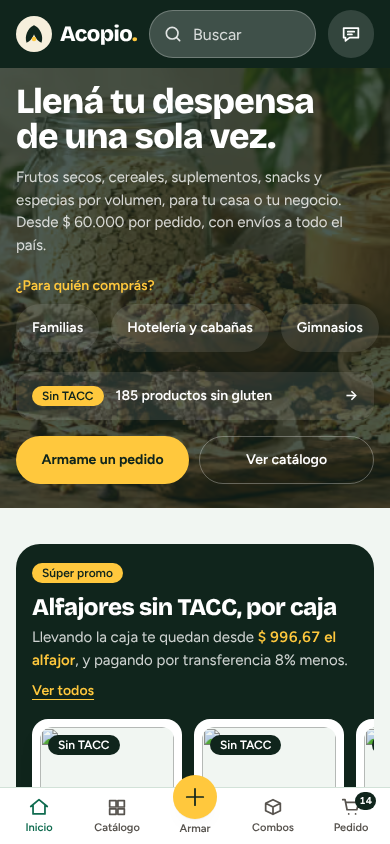
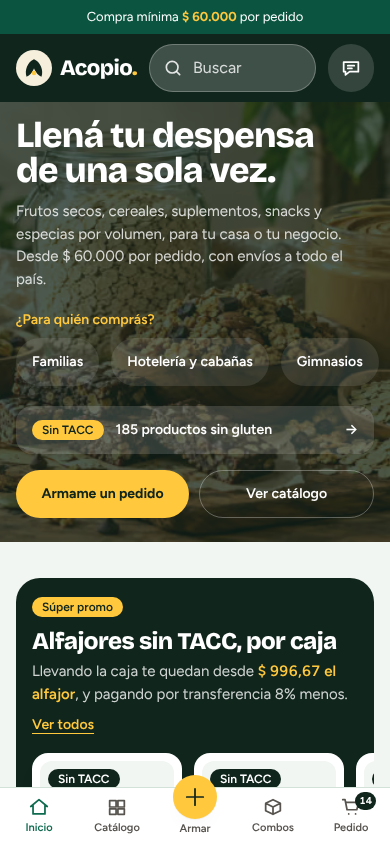
Donde aparece un combo, va todo lo que trae
Un combo mostraba su contenido recortado en dos renglones con "...", asi que
para saber que se llevaba habia que entrar a la ficha.

- ListaCombo: un solo componente con el contenido entero, encabezado por
  "Trae N productos" (y las unidades cuando no coinciden). Lo usan la tarjeta
  de combo (portada, /combos, ficha de producto, paginas locales) y los
  pedidos por rubro de la portada, que antes solo decian el numero.
- El asistente manda la lista completa en la ficha del combo y el renglon
  dejo de cortarse con truncate.

Ademas, la compra minima se veia recien al llegar al checkout. Ahora va en una
franja arriba de todo, en cada pagina, con el monto real de la configuracion.

Claude-Session: https://claude.ai/code/session_01AdVG5TyZmaUrU68vAP2mxP

diff --git a/src/app/(tienda)/layout.tsx b/src/app/(tienda)/layout.tsx
@@ -3,6 +3,8 @@ import { Logo } from "@/components/Logo";
 import { ProveedorCarrito } from "@/components/Carrito";
 import { BarraInferior, Encabezado, MedidorPedido } from "@/components/Encabezado";
 import { NICHOS } from "@/lib/taxonomia";
+import { leerConfig } from "@/lib/config";
+import { pesos } from "@/lib/precios";
 import { AVISO_SUPLEMENTOS, SITIO, urlSitio } from "@/lib/sitio";
 
 export const dynamic = "force-dynamic";
@@ -20,12 +22,18 @@ const NEGOCIO = {
   areaServed: [{ "@type": "City", name: "Villa Carlos Paz" }, { "@type": "AdministrativeArea", name: "Valle de Punilla" }, { "@type": "Country", name: "Argentina" }],
 };
 
-export default function TiendaLayout({ children }: { children: React.ReactNode }) {
+export default async function TiendaLayout({ children }: { children: React.ReactNode }) {
+  const cfg = await leerConfig();
   return (
     <ProveedorCarrito>
       <div className="flex min-h-screen flex-col overflow-x-clip">
         <script type="application/ld+json" dangerouslySetInnerHTML={{ __html: JSON.stringify(NEGOCIO).replace(/</g, "\\u003c") }} />
         <a href="#contenido" className="sr-only focus:not-sr-only focus:fixed focus:left-3 focus:top-3 focus:z-50 focus:rounded-full focus:bg-sol focus:px-4 focus:py-3 focus:font-bold focus:text-acopio-900">Saltar al contenido</a>
+        {/* La compra mínima tiene que saberse antes de elegir, no al llegar al checkout. Va arriba de todo, en cada página. */}
+        <p className="bg-acopio-700 px-4 py-2 text-center text-[13px] leading-snug text-white">
+          Compra mínima <b className="font-bold text-sol">{pesos(cfg.compraMinima)}</b> por pedido
+          <span className="hidden sm:inline"> · {cfg.entregaPropiaActiva ? "Entrega sin cargo en Villa Carlos Paz y el sur de Punilla · " : ""}Envíos a todo el país</span>
+        </p>
         <Encabezado />
         <main id="contenido" className="mx-auto w-full min-w-0 max-w-6xl flex-1 px-4 pb-40 pt-5 md:pb-24 md:pt-8">{children}</main>
         <footer className="fondo-oscuro bg-acopio-900 pb-28 text-white/80 md:pb-0">

diff --git a/src/components/Tienda.tsx b/src/components/Tienda.tsx
@@ -52,6 +52,27 @@ export function RielProductos({ productos }: { productos: ProductoTienda[] }) {
   );
 }
 
+/**
+ * Qué trae un combo, entero y sin recortar.
+ * Donde aparece un combo el cliente tiene que ver de un vistazo todo lo que se lleva:
+ * una lista cortada en "…" obliga a entrar a la ficha para saber qué está comprando.
+ */
+export function ListaCombo({ items, oscuro = false }: { items: { producto: ProductoTienda; cantidad: number }[]; oscuro?: boolean }) {
+  const unidades = items.reduce((s, i) => s + i.cantidad, 0);
+  return (
+    <div className="mt-2">
+      <p className={`text-[11px] font-bold uppercase tracking-wide ${oscuro ? "text-sol" : "text-acopio-700"}`}>
+        Trae {items.length} productos{unidades !== items.length ? `, ${unidades} unidades` : ""}
+      </p>
+      <ul className={`mt-1 space-y-px text-xs leading-snug ${oscuro ? "text-white/85" : "text-stone-700"}`}>
+        {items.map(({ producto, cantidad }) => (
+          <li key={producto.codigo}>{renglonCombo(producto, cantidad)}</li>
+        ))}
+      </ul>
+    </div>
+  );
+}
+
 export function TarjetaCombo({ c, className = "" }: { c: ComboTienda; className?: string }) {
   return (
     <article className={`fondo-oscuro flex flex-col rounded-2xl bg-acopio-900 p-3 text-white ${className}`}>
@@ -66,7 +87,7 @@ export function TarjetaCombo({ c, className = "" }: { c: ComboTienda; className?
           </div>
         )}
       <h3 className="mt-3 font-display text-xl font-bold leading-tight"><Link href={`/combos/${c.slug}`} className="estirado after:absolute after:inset-0 after:rounded-xl hover:underline">{c.nombre}</Link></h3>
-      <p className="mt-1 line-clamp-2 text-xs text-white/80">{c.items.map((i) => renglonCombo(i.producto, i.cantidad)).join(" · ")}</p>
+      <ListaCombo items={c.items} oscuro />
       </div>
       <div className="mt-auto flex flex-wrap items-baseline gap-2 pb-3 pt-3">
         <span className="font-display text-2xl font-bold tabular-nums">{pesos(c.precio)}</span>

diff --git a/src/app/api/asistente/route.ts b/src/app/api/asistente/route.ts
@@ -3,7 +3,7 @@ import { leerConfig } from "@/lib/config";
 import { detectar, normalizar, palabrasClave } from "@/lib/asistente";
 import { combosTienda, productosTienda, type ProductoTienda } from "@/lib/tienda";
 import { linkWhatsapp } from "@/lib/pedidos";
-import { pesos } from "@/lib/precios";
+import { pesos, renglonCombo } from "@/lib/precios";
 import { AVISO_SUPLEMENTOS } from "@/lib/sitio";
 
 export const dynamic = "force-dynamic";
@@ -38,7 +38,8 @@ async function buscar(texto: string, soloSinTacc = false): Promise<Respuesta> {
     return { texto: `No encontré «${consulta}»${soloSinTacc ? " sin TACC" : ""} en el catálogo. Probá con otra palabra o mirá las góndolas.`, enlaces: [{ href: "/catalogo", texto: "Ver el catálogo" }, { href: "/combos", texto: "Ver combos" }] };
   }
   const fichas: Ficha[] = [
-    ...combos.map((c) => ({ href: `/combos/${c.slug}`, nombre: `Combo ${c.nombre}`, detalle: `${c.items.length} productos, ${c.descuentoPct}% de descuento`, precio: pesos(Math.round(c.precio)), foto: c.fotoUrl })),
+    // El detalle de un combo es todo lo que trae: saber qué se lleva no puede depender de entrar a la ficha.
+    ...combos.map((c) => ({ href: `/combos/${c.slug}`, nombre: `Combo ${c.nombre}`, detalle: `Trae: ${c.items.map(({ producto, cantidad }) => renglonCombo(producto, cantidad)).join(" · ")}`, precio: pesos(Math.round(c.precio)), foto: c.fotoUrl })),
     ...hallados.slice(0, 4 - combos.length).map((p) => ({ href: `/producto/${p.codigo}`, nombre: p.producto, detalle: [p.marca.startsWith("Sin marca") ? "" : p.marca, p.presentacion].filter(Boolean).join(" · "), precio: pesos(p.precio), foto: p.fotoUrl })),
   ];
   const total = hallados.length + combos.length;

diff --git a/src/app/(tienda)/page.tsx b/src/app/(tienda)/page.tsx
@@ -11,7 +11,7 @@ import { NICHOS, OBJETIVOS } from "@/lib/taxonomia";
 import { pesos, precioPorUnidadSuelta } from "@/lib/precios";
 import { Foto } from "@/components/Foto";
 import { BotonCargarPedido } from "@/components/Carrito";
-import { RielProductos, TarjetaCombo, TituloSeccion } from "@/components/Tienda";
+import { ListaCombo, RielProductos, TarjetaCombo, TituloSeccion } from "@/components/Tienda";
 
 // Portadas propias de las góndolas; las demás usan la foto de un producto.
 
@@ -121,8 +121,8 @@ export default async function Home() {
                     ))}
                   </div>
                   <h3 className="mt-3 font-display text-xl font-bold leading-tight"><Link href={`/nichos/${p.nicho}`} className="hover:underline">{p.nombre.replace(/^Pedido /, "")}</Link></h3>
-                  <p className="text-xs text-stone-600">{items.length} productos, {items.reduce((s, i) => s + i.cantidad, 0)} unidades</p>
-                  <p className="mt-2 font-display text-2xl font-bold tabular-nums">{pesos(total)}</p>
+                  <ListaCombo items={items} />
+                  <p className="mt-3 font-display text-2xl font-bold tabular-nums">{pesos(total)}</p>
                   <p className="mb-3 text-xs text-stone-600">{total >= cfg.compraMinima ? "Ya llega a la compra mínima" : `Te quedan ${pesos(cfg.compraMinima - total)} para completar el mínimo`}</p>
                   <div className="mt-auto flex gap-2">
                     <BotonCargarPedido etiqueta="Cargar pedido" className="btn-comprar flex-1" lineas={items.map((i) => ({ tipo: "producto" as const, id: i.producto.codigo, cantidad: i.cantidad }))} />

diff --git a/src/components/Asistente.tsx b/src/components/Asistente.tsx
@@ -104,7 +104,8 @@ export function Asistente() {
                         <Foto src={f.foto} alt="" className="h-14 w-14 shrink-0 rounded-xl" sizes="56px" />
                         <span className="min-w-0 flex-1">
                           <span className="line-clamp-2 text-sm font-semibold leading-tight">{f.nombre}</span>
-                          {f.detalle && <span className="block truncate text-xs text-stone-600">{f.detalle}</span>}
+                          {/* Sin recortar: en un combo este renglón es la lista de lo que trae. */}
+                          {f.detalle && <span className="mt-0.5 block text-xs leading-snug text-stone-600">{f.detalle}</span>}
                         </span>
                         <span className="shrink-0 text-sm font-bold tabular-nums">{f.precio}</span>
                       </Link>
